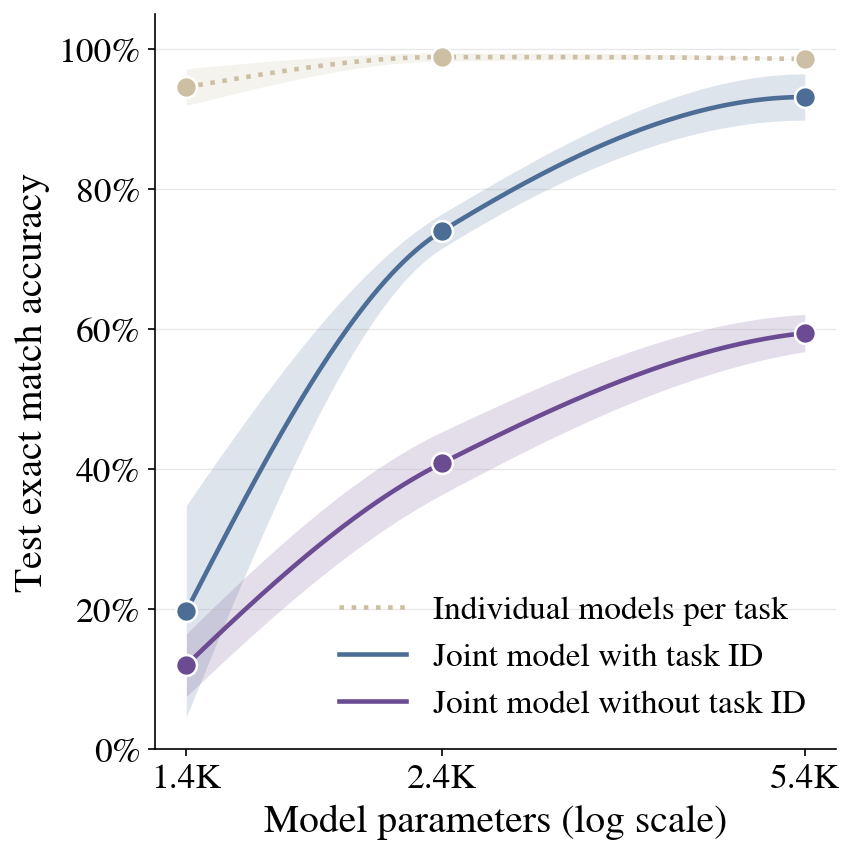
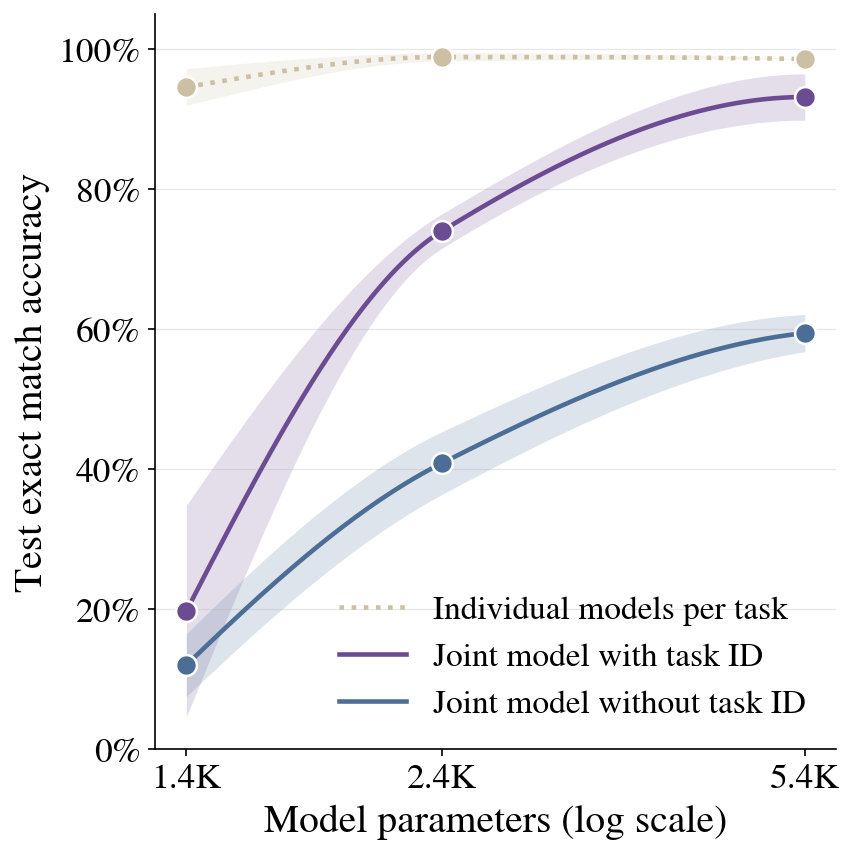
Swap blue/purple roles: purple = with task ID, blue = without

diff --git a/configs/experiments/arc1d_v2_multitask/plot_per_task.py b/configs/experiments/arc1d_v2_multitask/plot_per_task.py
@@ -52,8 +52,8 @@ DIMS = ("4", "6", "10")
 # also used for ARC cell values 0-9), not picked ad hoc.
 COLORS = {
     "individual": PAPER_COLORS[0],  # khaki/tan -- baseline
-    "td": PAPER_COLORS[6],  # slate blue -- joint, with task ID
-    "notd": PAPER_COLORS[8],  # purple -- joint, no task ID
+    "td": PAPER_COLORS[8],  # purple -- joint, with task ID
+    "notd": PAPER_COLORS[6],  # slate blue -- joint, no task ID
 }
 LABELS = {
     "individual": "Individual models per task",
@@ -87,8 +87,8 @@ def apply_order_overrides(tasks: list[str], overrides: list[tuple[str, str]]) ->
 # built from this palette exactly, not just approximately.
 FILL_COLORS = {
     "individual": PAPER_FILL_COLORS[0],
-    "td": PAPER_FILL_COLORS[6],
-    "notd": PAPER_FILL_COLORS[8],
+    "td": PAPER_FILL_COLORS[8],
+    "notd": PAPER_FILL_COLORS[6],
 }
 
 

diff --git a/configs/experiments/arc1d_v2_multitask/plot_capacity_cliff.py b/configs/experiments/arc1d_v2_multitask/plot_capacity_cliff.py
@@ -61,8 +61,8 @@ DIM_PARAMS = {"4": 1398, "6": 2444, "10": 5400}
 # also used for ARC cell values 0-9), not picked ad hoc.
 COLORS = {
     "individual": PAPER_COLORS[0],  # khaki/tan -- baseline
-    "notd": PAPER_COLORS[8],  # purple -- joint, no task ID
-    "td": PAPER_COLORS[6],  # slate blue -- joint, with task ID
+    "notd": PAPER_COLORS[6],  # slate blue -- joint, no task ID
+    "td": PAPER_COLORS[8],  # purple -- joint, with task ID
 }
 LINESTYLES = {"individual": ":", "notd": "-", "td": "-"}
 LABELS = {
